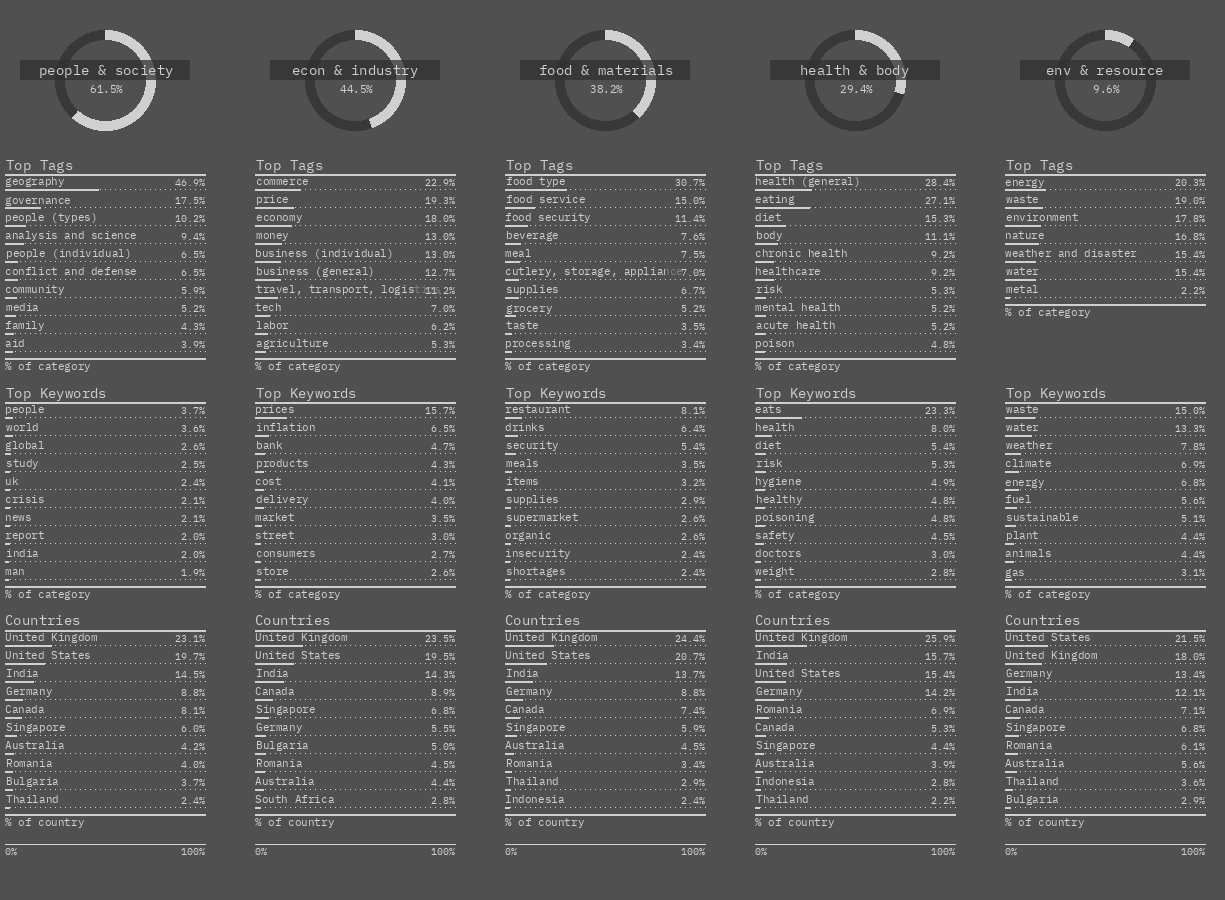
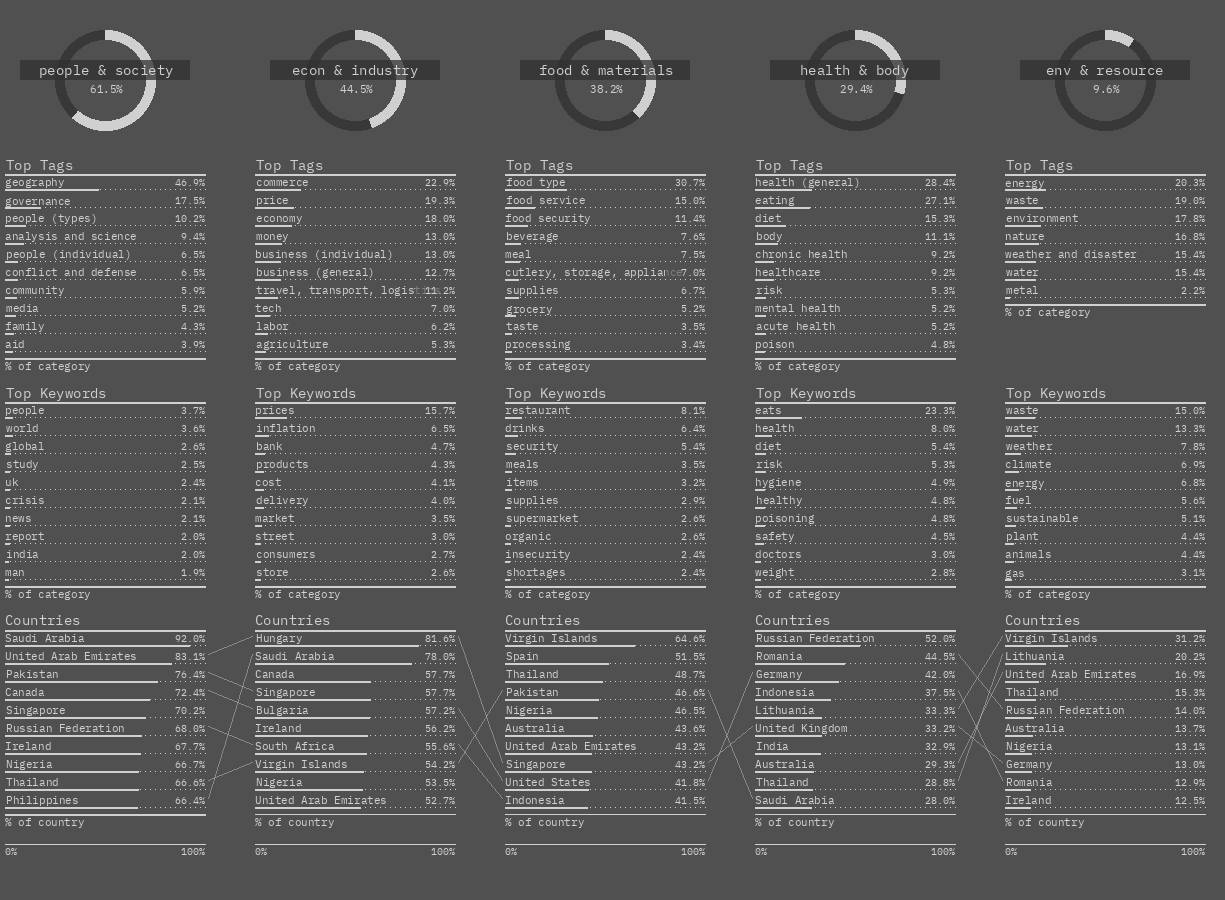
Drawing slopes.

diff --git a/viz.py b/viz.py
@@ -1,3 +1,5 @@
+import typing
+
 import sketching
 
 import data_util
@@ -31,13 +33,15 @@ class VizColumn:
     def set_results(self, results: data_util.Result):
         self._results = results
 
-    def draw(self, current_state: state_util.VizState):
+    def draw(self, current_state: state_util.VizState,
+        prior_placements: typing.Dict[str, float]) -> typing.Dict[str, float]:
         self._sketch.push_transform()
         self._sketch.push_style()
 
         self._sketch.translate(self._x, 0)
 
         y = 0
+        placements: typing.Dict[str, float] = {}
 
         y = self._draw_header(y)
 
@@ -46,7 +50,9 @@ class VizColumn:
             '% of category',
             y,
             self._results.get_tags(),
-            self._results.get_group_count()
+            lambda x: self._results.get_group_count(),
+            prior_placements,
+            placements
         )
         
         y = self._draw_counted_groups(
@@ -54,21 +60,30 @@ class VizColumn:
             '% of category',
             y,
             self._results.get_keywords(),
-            self._results.get_group_count()
+            lambda x: self._results.get_group_count(),
+            prior_placements,
+            placements
         )
         
+        country_totals = self._results.get_country_totals()
+        country_totals_indexed = dict(map(lambda x: (x.get_name(), x.get_count()), country_totals))
+
         y = self._draw_counted_groups(
             'Countries',
             '% of country',
             y,
             self._results.get_countries(),
-            self._results.get_group_count()
+            lambda x: country_totals_indexed[x],
+            prior_placements,
+            placements
         )
 
         y = self._draw_axis(y)
 
         self._sketch.pop_style()
         self._sketch.pop_transform()
+
+        return placements
 
     def _draw_axis(self, y: int):
         self._sketch.push_transform()
@@ -132,8 +147,23 @@ class VizColumn:
 
         return 160
 
+    def _interpret_groups(self, groups: data_util.COUNTED_GROUPS, total_getter,
+        count: int) -> typing.Dict:
+        def interpret_group(group: data_util.CountedGroup) -> typing.Dict:
+            name = group.get_name()
+            percent = group.get_count() / (total_getter(group.get_name()) + 0.0) * 100
+            return {
+                'name': name,
+                'percent': percent
+            }
+
+        results = [interpret_group(x) for x in groups]
+        results.sort(key=lambda x: x['percent'], reverse=True)
+        return results[:count]
+
     def _draw_counted_groups(self, label: str, sub_title: str, y: int,
-        groups: data_util.COUNTED_GROUPS, total: int, min_count: int = 10):
+        groups: data_util.COUNTED_GROUPS, total_getter, prior_placements: typing.Dict[str, float],
+        placements: typing.Dict[str, float], count: int = 10):
         self._sketch.push_transform()
         self._sketch.push_style()
 
@@ -150,8 +180,11 @@ class VizColumn:
         self._sketch.set_text_align('left', 'baseline')
         self._sketch.draw_text(0, y - 5, label)
 
-        for group in groups:
-            percent = group.get_count() / (total + 0.0) * 100
+        groups_interpreted = self._interpret_groups(groups, total_getter, count)
+
+        for group in groups_interpreted:
+            percent = group['percent']
+            name = group['name']
 
             self._sketch.clear_stroke()
 
@@ -167,7 +200,9 @@ class VizColumn:
             self._sketch.set_fill(INACTIVE_COLOR)
             self._sketch.set_text_font('IBMPlexMono-Regular.ttf', 11)
             self._sketch.set_text_align('left', 'baseline')
-            self._sketch.draw_text(0, y + 11, group.get_name())
+            self._sketch.draw_text(0, y + 12, name)
+
+            placements[name] = y + 6
 
             self._sketch.set_rect_mode('corner')
             self._sketch.set_fill(BG_COLOR_LAYER)
@@ -177,6 +212,17 @@ class VizColumn:
             self._sketch.set_fill(INACTIVE_COLOR)
             self._sketch.set_text_font('IBMPlexMono-Regular.ttf', 10)
             self._sketch.draw_text(COLUMN_WIDTH, y + 11, '%.1f%%' % percent)
+
+            if name in prior_placements:
+                self._sketch.clear_fill()
+                self._sketch.set_stroke(INACTIVE_COLOR + '70')
+                self._sketch.set_stroke_weight(1)
+                self._sketch.draw_line(
+                    -3,
+                    prior_placements[name],
+                    -1 * COLUMN_PADDING + 3,
+                    placements[name]
+                )
 
             y += 18
 
@@ -195,8 +241,8 @@ class VizColumn:
         self._sketch.pop_style()
         self._sketch.pop_transform()
 
-        if len(groups) < min_count:
-            num_missing = min_count - len(groups)
+        if len(groups) < count:
+            num_missing = count - len(groups)
             y += 18 * num_missing
 
         return y + 30
@@ -233,8 +279,9 @@ class NewsVisualization:
         if self._changed:
             self._sketch.clear(BG_COLOR)
 
+            placements = {}
             for column in self._columns:
-                column.draw(self._state)
+                placements = column.draw(self._state, placements)
 
             self._changed = False
 

diff --git a/data_util.py b/data_util.py
@@ -55,11 +55,13 @@ COUNTED_GROUPS = typing.List[CountedGroup]
 class Result:
 
     def __init__(self, total_count: int, group_count: int, categories: COUNTED_GROUPS,
-        countries: COUNTED_GROUPS, tags: COUNTED_GROUPS, keywords: COUNTED_GROUPS):
+        countries: COUNTED_GROUPS, country_totals: COUNTED_GROUPS, tags: COUNTED_GROUPS,
+        keywords: COUNTED_GROUPS):
         self._total_count = total_count
         self._group_count = group_count
         self._categories = categories
         self._countries = countries
+        self._country_totals = country_totals
         self._tags = tags
         self._keywords = keywords
 
@@ -74,6 +76,9 @@ class Result:
 
     def get_countries(self) -> COUNTED_GROUPS:
         return self._countries
+
+    def get_country_totals(self) -> COUNTED_GROUPS:
+        return self._country_totals
 
     def get_tags(self) -> COUNTED_GROUPS:
         return self._tags
@@ -95,16 +100,22 @@ class LocalDataAccessor(DataAccessor):
 
         total_count = self._get_total_no_query(connection)
 
-        group_count_raw = self._execute_sql(connection, query, 'total.sql')
+        group_count_raw = self._execute_sql(connection, query, 'total.sql', True)
         group_count = int(group_count_raw[0][0])
 
-        def execute_inner(filename: str) -> COUNTED_GROUPS:
-            return self._execute_sql_for_counted_groups(connection, query, filename)
+        def execute_inner(filename: str, include_category: bool) -> COUNTED_GROUPS:
+            return self._execute_sql_for_counted_groups(
+                connection,
+                query,
+                filename,
+                include_category
+            )
 
-        categories = execute_inner('categories.sql')
-        countries = execute_inner('countries.sql')
-        tags = execute_inner('tags.sql')
-        keywords = execute_inner('keywords.sql')
+        categories = execute_inner('categories.sql', True)
+        countries = execute_inner('countries.sql', True)
+        country_totals = execute_inner('countries.sql', False)
+        tags = execute_inner('tags.sql', True)
+        keywords = execute_inner('keywords.sql', True)
 
         connection.close()
 
@@ -113,12 +124,16 @@ class LocalDataAccessor(DataAccessor):
             group_count,
             categories,
             countries,
+            country_totals,
             tags,
             keywords
         )
 
-    def _create_where_clause(self, query: Query) -> str:
-        clauses = ['category = ?']
+    def _create_where_clause(self, query: Query, include_category: bool) -> str:
+        clauses = []
+
+        if include_category:
+            clauses.append('category = ?')
 
         if query.has_country():
             clauses.append('country = ?')
@@ -129,12 +144,20 @@ class LocalDataAccessor(DataAccessor):
         if query.has_keyword():
             clauses.append('(token = ? AND tokenType = \'keyword\')')
 
+        if len(clauses) == 0:
+            clauses.append('1 = 1')
+
         return ' AND '.join(clauses)
 
 
-    def _convert_query_to_params(self, sql_base: str, query: Query) -> typing.List:
+    def _convert_query_to_params(self, sql_base: str, query: Query,
+        include_category: bool) -> typing.List:
+
         def get_clauses() -> typing.List:
-            clauses = [query.get_category()]
+            clauses = []
+
+            if include_category:
+                clauses.append(query.get_category())
 
             if query.has_country():
                 clauses.append(query.get_country())
@@ -150,7 +173,7 @@ class LocalDataAccessor(DataAccessor):
         return get_clauses() * sql_base.count('WHERE_CLAUSE')
 
     def _execute_sql(self, connection: sqlite3.Connection, query: Query,
-        filename: str) -> typing.List[typing.Tuple]:
+        filename: str, include_category: bool) -> typing.List[typing.Tuple]:
         cursor = connection.cursor()
 
         base_path = os.path.dirname(os.path.abspath(__file__))
@@ -160,12 +183,12 @@ class LocalDataAccessor(DataAccessor):
 
         sql = sql_base.replace(
             'WHERE_CLAUSE',
-            'WHERE ' + self._create_where_clause(query)
+            'WHERE ' + self._create_where_clause(query, include_category)
         )
 
         result = cursor.execute(
             sql,
-            self._convert_query_to_params(sql_base, query)
+            self._convert_query_to_params(sql_base, query, include_category)
         )
         result_realized = list(result.fetchall())
 
@@ -174,12 +197,12 @@ class LocalDataAccessor(DataAccessor):
 
 
     def _execute_sql_for_counted_groups(self, connection: sqlite3.Connection, query: Query,
-        filename: str) -> COUNTED_GROUPS:
+        filename: str, include_category: bool) -> COUNTED_GROUPS:
         
         def parse_counted_group(target: typing.Tuple) -> CountedGroup:
             return CountedGroup(target[0], int(target[1]))
 
-        results_raw = self._execute_sql(connection, query, filename)
+        results_raw = self._execute_sql(connection, query, filename, include_category)
         return [parse_counted_group(x) for x in results_raw]
 
     def _get_total_no_query(self, connection: sqlite3.Connection) -> int:
